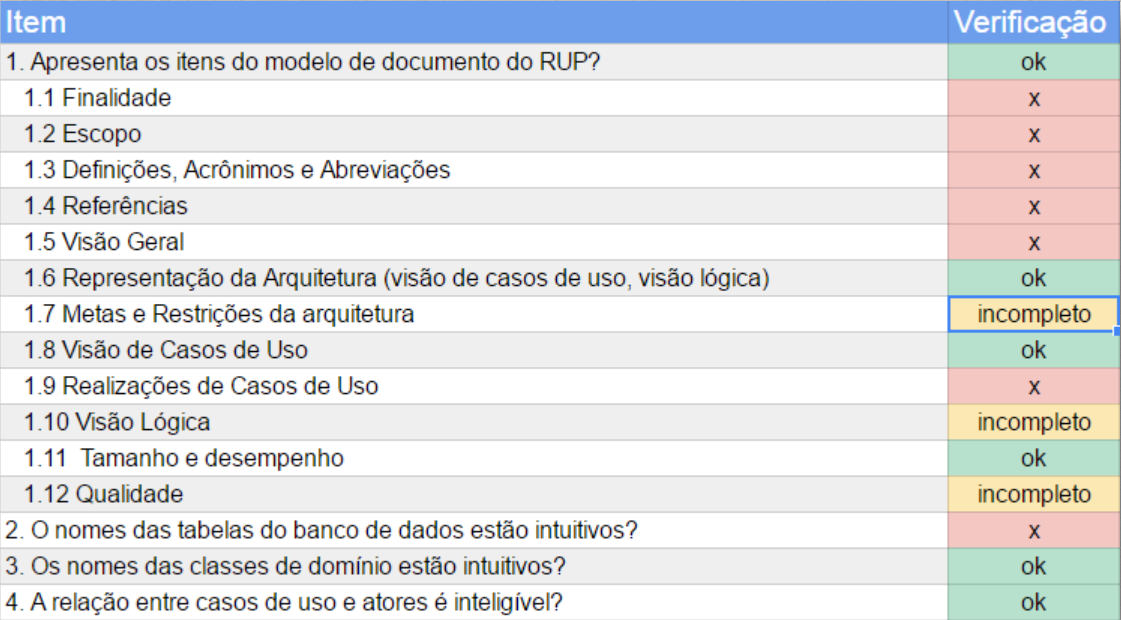
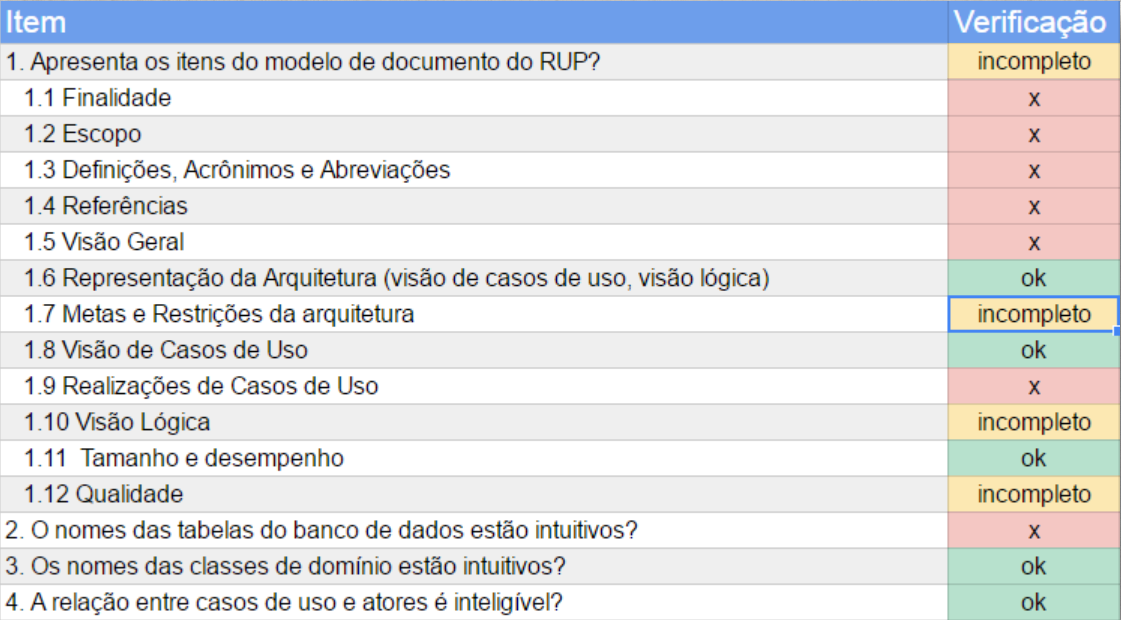
correcoes e aderencia e processo

Changed region(s): [[0.843, 0.0613, 0.9991, 0.1532]]

diff --git a/rel1/conteudo/processo.tex b/rel1/conteudo/processo.tex
@@ -19,7 +19,7 @@ Escolher qual documento seria inspecionado. Definido de acordo com o que foi dit
 Definir quais elementos seriam inspecionados e com base em quais critérios. 
 
     \subsection{Check list}
-    Foi definido um checklist com os critérios escolhidos de acordo com o template oferecido no site \url{http://www.funpar.ufpr.br:8080/rup/webtmpl/templates/a_and_d/rup_sad.html} o qual define tópicos obrigatórios na construção do documento de arquitetura. Os tópicos são: 
+    Foi definido um \textit{checklist} com os critérios escolhidos de acordo com o template oferecido no site \url{http://www.funpar.ufpr.br:8080/rup/webtmpl/templates/a_and_d/rup_sad.html} o qual define tópicos obrigatórios na construção do documento de arquitetura. Os tópicos são: 
 
     \begin{itemize}
         \item Introdução
@@ -57,19 +57,22 @@ Definir quais elementos seriam inspecionados e com base em quais critérios.
  O documento escolhido para verificação foi o de Arquitetura do projeto Sushizuki, disponível em \url{https://github.com/sushizuki/main-project/wiki/Documento-de-Arquitetura} , desenvolvido para a matéria de Desenho de Software ofertada na Universidade de Brasília campus Gama.
 
 
- \section{Definir Moderador}
+ \section{Definir Moderador e Revisores}
 
- Identificar os autores da inspeção e seus papeis. 
-
- \subsection{-----}
+ Identificar os autores da inspeção e os moderadores para mediar a inspeção. 
 
  \section{Inspecionar Documento}
 
  \subsection{Checklist}
 
- \section{Solicitar e Realizar Walkthrough}
+ Primeiramente o produto é apresentado pelos autores. O documento segue então para a revisão.
 
- \subsection{----}
+ Possíveis erros são apontados.
+
+ \section{Solicitar e Realizar \textit{Walkthrough}}
+
+ Com o \textit{walkthrough} é possível ter justificativas e ter certeza de erros
+ que poderiam ser erroneamente identificados. 
 
  \section{Resultados}
 
@@ -82,4 +85,9 @@ Definir quais elementos seriam inspecionados e com base em quais critérios.
   \label{fig:checklist-results}
 \end{figure}
 
- \subsection{}
+ \subsection{Nível de Aderência}
+
+O documento teve, ao final do processo, um nível de aderência de 49.59\%. Esse
+valor foi extraído dividindo o total de 100\% pelos 15 itens. Um item ``ok''
+adiciona 6.66\% de aderência para o documento, e um item ``incompleto'' adiciona
+3.33\% de aderência para o documento.

diff --git a/rel1/conteudo/justificativa-doc.tex b/rel1/conteudo/justificativa-doc.tex
@@ -1,6 +1,6 @@
 \chapter{Justificativa da Escolha do Documento}
 
-Um dos pontos processo unificado é ser centrado na arquitetura durante a fase de elaboração, logo maior parte dos esforços da equipe do projeto concentra-se em construir uma arquitetura estável. 
-Tendo em vista isso, construir um documento de arquitetura que esteja correto  e de acordo com os interesses dos envolvidos é ideal para evitar-se retrabalho, perdas em recursos humanos, financeiros e ambiguidade de implementação no futuro. 
+Um dos pontos do processo unificado é ser centrado na arquitetura durante a fase de elaboração. Logo, maior parte dos esforços da equipe do projeto se concentra em construir uma arquitetura estável. 
+Tendo em vista isso, construir um documento de arquitetura que esteja correto  e de acordo com os interesses dos envolvidos é ideal para evitar retrabalho, perdas em recursos humanos, financeiros e ambiguidade de implementação no futuro. 
 
-Tais fatores mostram-se decisivos para o sucesso do projeto de construção de software por isso foi escolhido o Documento de Arquitetura para realizar-se a verificação estática. 
+Tais fatores mostram-se decisivos para o sucesso do projeto de construção de \textit{software}. Por esse motivo, o documento de arquitetura foi o artefato escolhido para a verificação estática.

diff --git a/rel1/conteudo/controle.tex b/rel1/conteudo/controle.tex
@@ -4,16 +4,16 @@
 e não está em desenvolvimento, mas ainda assim é possível prever soluções e 
 como controlar a execução das correções propostas.
 
-Os autores indicaram intenção de voltar o projeto para Evolução na Disciplina de 
-Manutenção e Evolução de Software. Dessa maneira foram estipuladas duas estratégias 
+Os autores indicaram intenção de voltar o projeto para evolução na Disciplina de 
+Manutenção e Evolução de software. Dessa maneira foram estipuladas duas estratégias 
 de controle:
 
 \section{Sem Prazos}
 
 Se a equipe preferir seguir com controle sem prazos específicos de correção,
 mas deixar a correção como uma opção do backlog, A sugestão desse trabalho é
-que se utilize a funcionalidade do \textbf{GitHub} de delegação de Issues. Dessa forma
-a equipe pode planejar essas correções em suas sprints de desenvolvimento.
+que se utilize a funcionalidade do \textbf{GitHub} de delegação de issues. Dessa forma
+a equipe pode planejar essas correções em suas textit{sprints} de desenvolvimento.
 
 
 \section{Com Prazos}

diff --git a/rel1/conteudo/projeto-excolhido.tex b/rel1/conteudo/projeto-excolhido.tex
@@ -4,8 +4,7 @@ O projeto e o artefato escolhidos não podem ter participação dos moderadores 
 Isso evita viés de avaliação, e faz com que o resultado tenha menor credibilidade. Por esse motivo um projeto totalmente fora 
 do nosso contexto foi excolhido.
 
-O projeto escolhido foi o Sushizuki.
-E o artefato escolhido foi o Documento de Arquitetura.
+O projeto escolhido foi o Sushizuki e o artefato escolhido foi o Documento de Arquitetura.
 
 
 \begin{figure}[H]

diff --git a/rel1/conteudo/conclusao.tex b/rel1/conteudo/conclusao.tex
@@ -2,5 +2,5 @@
 
 Já que o projeto está atualmente congelado, não é possível ver os resultados das
 correções requisitadas por esse trabalho. Todavia, é possível notar que a utilização
-de um Walkthrough após um processo de inspeção possibilita que tenhamos um feedback
+de um textit{Walkthrough} após um processo de inspeção possibilita que tenhamos um \textit{feedback}
 que torna a inspeção mais flexível e adaptada.
